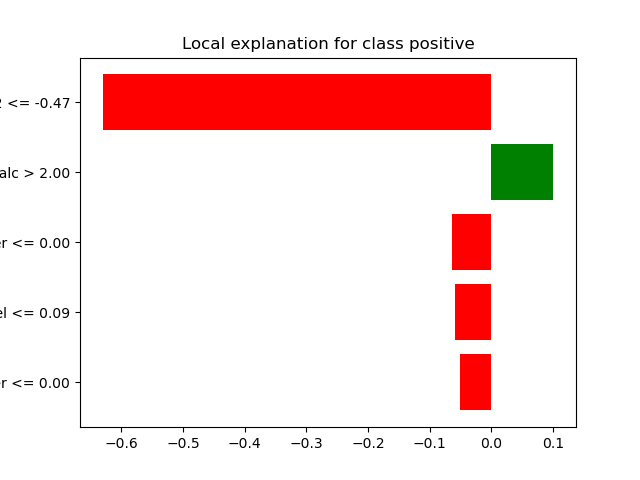
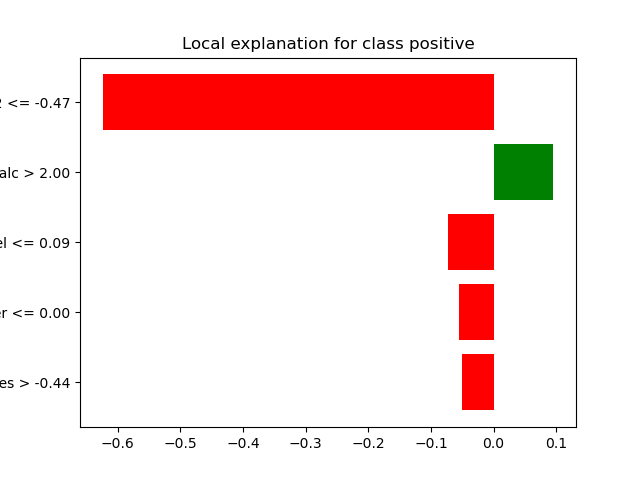
Add Ridge model to main()

diff --git a/figures/lime_39.html b/figures/lime_39.html
@@ -37089,10 +37089,10 @@
 /***/ })
 /******/ ]);
 //# sourceMappingURL=bundle.js.map </script></head><body>
-        <div class="lime top_div" id="top_divLCH2CMJU0Z2MKSY"></div>
+        <div class="lime top_div" id="top_divL2IT0K8J4D5O4UO"></div>
         
         <script>
-        var top_div = d3.select('#top_divLCH2CMJU0Z2MKSY').classed('lime top_div', true);
+        var top_div = d3.select('#top_divL2IT0K8J4D5O4UO').classed('lime top_div', true);
         
             var pp_div = top_div.append('div')
                                 .classed('lime predict_proba', true);
@@ -37104,10 +37104,10 @@
             var exp = new lime.Explanation(["negative", "positive"]);
         
                 exp_div = top_div.append('div').classed('lime explanation', true);
-                exp.show([["num__G2 <= -0.47", -0.6302525940726493], ["ord__Walc > 2.00", 0.10050170514354373], ["cat__Fjob_other <= 0.00", -0.064282631124784], ["num__famrel <= 0.09", -0.05981490058101878], ["cat__guardian_father <= 0.00", -0.05150363573147499]], 1, exp_div);
+                exp.show([["num__G2 <= -0.47", -0.6239044308129955], ["ord__Walc > 2.00", 0.09545410474801767], ["num__famrel <= 0.09", -0.0723570587580076], ["cat__Fjob_other <= 0.00", -0.055085343238639645], ["num__failures > -0.44", -0.050852266137957285]], 1, exp_div);
                 
         var raw_div = top_div.append('div');
-            exp.show_raw_tabular([["num__G2", "-0.47", -0.6302525940726493], ["ord__Walc", "3.00", 0.10050170514354373], ["cat__Fjob_other", "0.00", -0.064282631124784], ["num__famrel", "0.09", -0.05981490058101878], ["cat__guardian_father", "0.00", -0.05150363573147499]], 1, raw_div);
+            exp.show_raw_tabular([["num__G2", "-0.47", -0.6239044308129955], ["ord__Walc", "3.00", 0.09545410474801767], ["num__famrel", "0.09", -0.0723570587580076], ["cat__Fjob_other", "0.00", -0.055085343238639645], ["num__failures", "0.89", -0.050852266137957285]], 1, raw_div);
         
         </script>
         </body></html>

diff --git a/figures/lime_37.html b/figures/lime_37.html
@@ -37089,10 +37089,10 @@
 /***/ })
 /******/ ]);
 //# sourceMappingURL=bundle.js.map </script></head><body>
-        <div class="lime top_div" id="top_divR8EY73C3OIPA5FG"></div>
+        <div class="lime top_div" id="top_divNAA9L3ZH5QOELVW"></div>
         
         <script>
-        var top_div = d3.select('#top_divR8EY73C3OIPA5FG').classed('lime top_div', true);
+        var top_div = d3.select('#top_divNAA9L3ZH5QOELVW').classed('lime top_div', true);
         
             var pp_div = top_div.append('div')
                                 .classed('lime predict_proba', true);
@@ -37104,10 +37104,10 @@
             var exp = new lime.Explanation(["negative", "positive"]);
         
                 exp_div = top_div.append('div').classed('lime explanation', true);
-                exp.show([["num__G2 <= -0.47", -0.6371043199959465], ["num__G1 <= -0.90", -0.21784704308555441], ["ord__Walc <= 0.00", -0.06859102038803241], ["0.00 < cat__Fjob_other <= 1.00", 0.06853744058807187], ["0.26 < num__age <= 1.04", -0.06782066119106461]], 1, exp_div);
+                exp.show([["num__G2 <= -0.47", -0.629809015242215], ["num__G1 <= -0.90", -0.2169175607683619], ["ord__Walc <= 0.00", -0.09322552453238096], ["0.09 < num__famrel <= 1.19", 0.06985635238040142], ["0.26 < num__age <= 1.04", -0.062444792611275994]], 1, exp_div);
                 
         var raw_div = top_div.append('div');
-            exp.show_raw_tabular([["num__G2", "-0.47", -0.6371043199959465], ["num__G1", "-0.90", -0.21784704308555441], ["ord__Walc", "0.00", -0.06859102038803241], ["cat__Fjob_other", "1.00", 0.06853744058807187], ["num__age", "1.04", -0.06782066119106461]], 1, raw_div);
+            exp.show_raw_tabular([["num__G2", "-0.47", -0.629809015242215], ["num__G1", "-0.90", -0.2169175607683619], ["ord__Walc", "0.00", -0.09322552453238096], ["num__famrel", "1.19", 0.06985635238040142], ["num__age", "1.04", -0.062444792611275994]], 1, raw_div);
         
         </script>
         </body></html>

diff --git a/figures/lime_31.html b/figures/lime_31.html
@@ -37089,10 +37089,10 @@
 /***/ })
 /******/ ]);
 //# sourceMappingURL=bundle.js.map </script></head><body>
-        <div class="lime top_div" id="top_div5F3Q8BGCGZSVMYX"></div>
+        <div class="lime top_div" id="top_divTA3LX2M4T15BC5L"></div>
         
         <script>
-        var top_div = d3.select('#top_div5F3Q8BGCGZSVMYX').classed('lime top_div', true);
+        var top_div = d3.select('#top_divTA3LX2M4T15BC5L').classed('lime top_div', true);
         
             var pp_div = top_div.append('div')
                                 .classed('lime predict_proba', true);
@@ -37104,10 +37104,10 @@
             var exp = new lime.Explanation(["negative", "positive"]);
         
                 exp_div = top_div.append('div').classed('lime explanation', true);
-                exp.show([["num__G2 <= -0.47", -0.6386020620598626], ["num__G1 <= -0.90", -0.2245379877581636], ["num__age <= -0.52", 0.07981960733534008], ["ord__Walc <= 0.00", -0.07601895483341341], ["cat__Fjob_other <= 0.00", -0.06028081934666279]], 1, exp_div);
+                exp.show([["num__G2 <= -0.47", -0.6288993345642532], ["num__G1 <= -0.90", -0.20611667946635787], ["ord__Walc <= 0.00", -0.08865065846835436], ["num__age <= -0.52", 0.08018214080904532], ["cat__Fjob_other <= 0.00", -0.06592055340896122]], 1, exp_div);
                 
         var raw_div = top_div.append('div');
-            exp.show_raw_tabular([["num__G2", "-0.73", -0.6386020620598626], ["num__G1", "-0.90", -0.2245379877581636], ["num__age", "-1.31", 0.07981960733534008], ["ord__Walc", "0.00", -0.07601895483341341], ["cat__Fjob_other", "0.00", -0.06028081934666279]], 1, raw_div);
+            exp.show_raw_tabular([["num__G2", "-0.73", -0.6288993345642532], ["num__G1", "-0.90", -0.20611667946635787], ["ord__Walc", "0.00", -0.08865065846835436], ["num__age", "-1.31", 0.08018214080904532], ["cat__Fjob_other", "0.00", -0.06592055340896122]], 1, raw_div);
         
         </script>
         </body></html>

diff --git a/src/nested_cv.py b/src/nested_cv.py
@@ -12,7 +12,7 @@ from sklearn.ensemble import (
     BaggingRegressor,
     StackingRegressor,
 )
-from sklearn.linear_model import LinearRegression, Lasso
+from sklearn.linear_model import LinearRegression, Lasso, Ridge
 from sklearn.svm import SVR
 from sklearn.neighbors import KNeighborsRegressor
 from sklearn.tree import DecisionTreeRegressor
@@ -272,7 +272,15 @@ def main(csv_path: str = "student-mat.csv", repeats: int = 1, models=None):
                 LinearRegression(),
                 {"select__k": ["all", 20]},
             ),
-                        (
+            (
+                "ridge",
+                Ridge(),
+                {
+                    "select__k": ["all", 20],
+                    "model__alpha": [0.1, 1.0, 10.0],
+                },
+            ),
+            (
                 "lasso",
                 Lasso(random_state=0),
                 {
